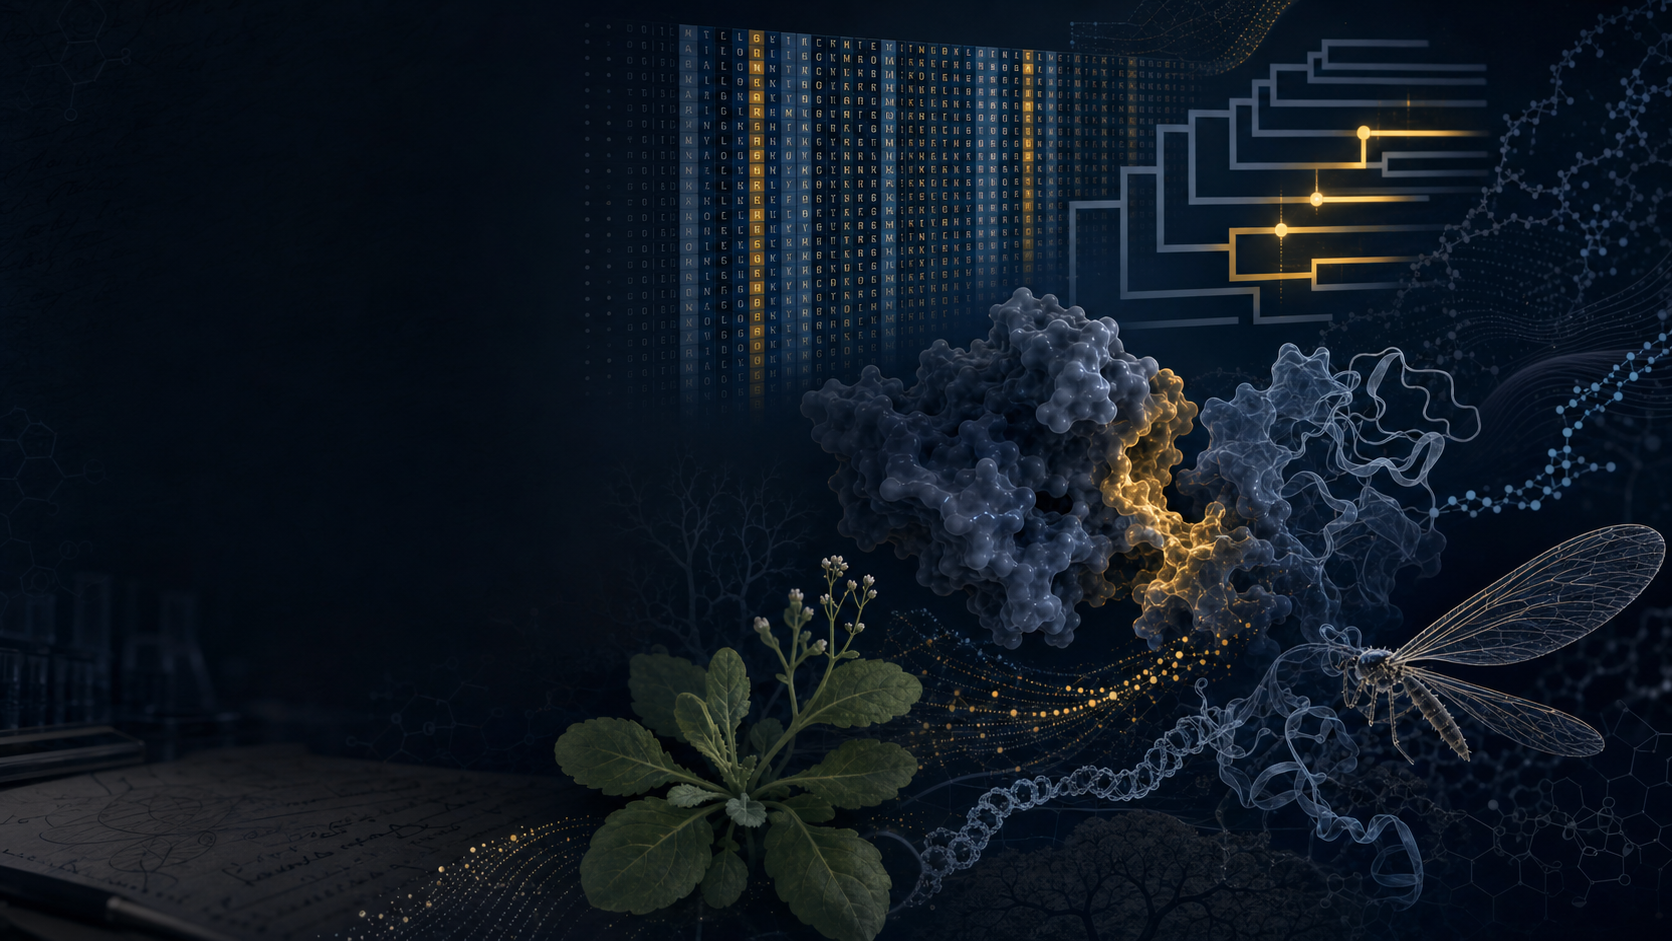
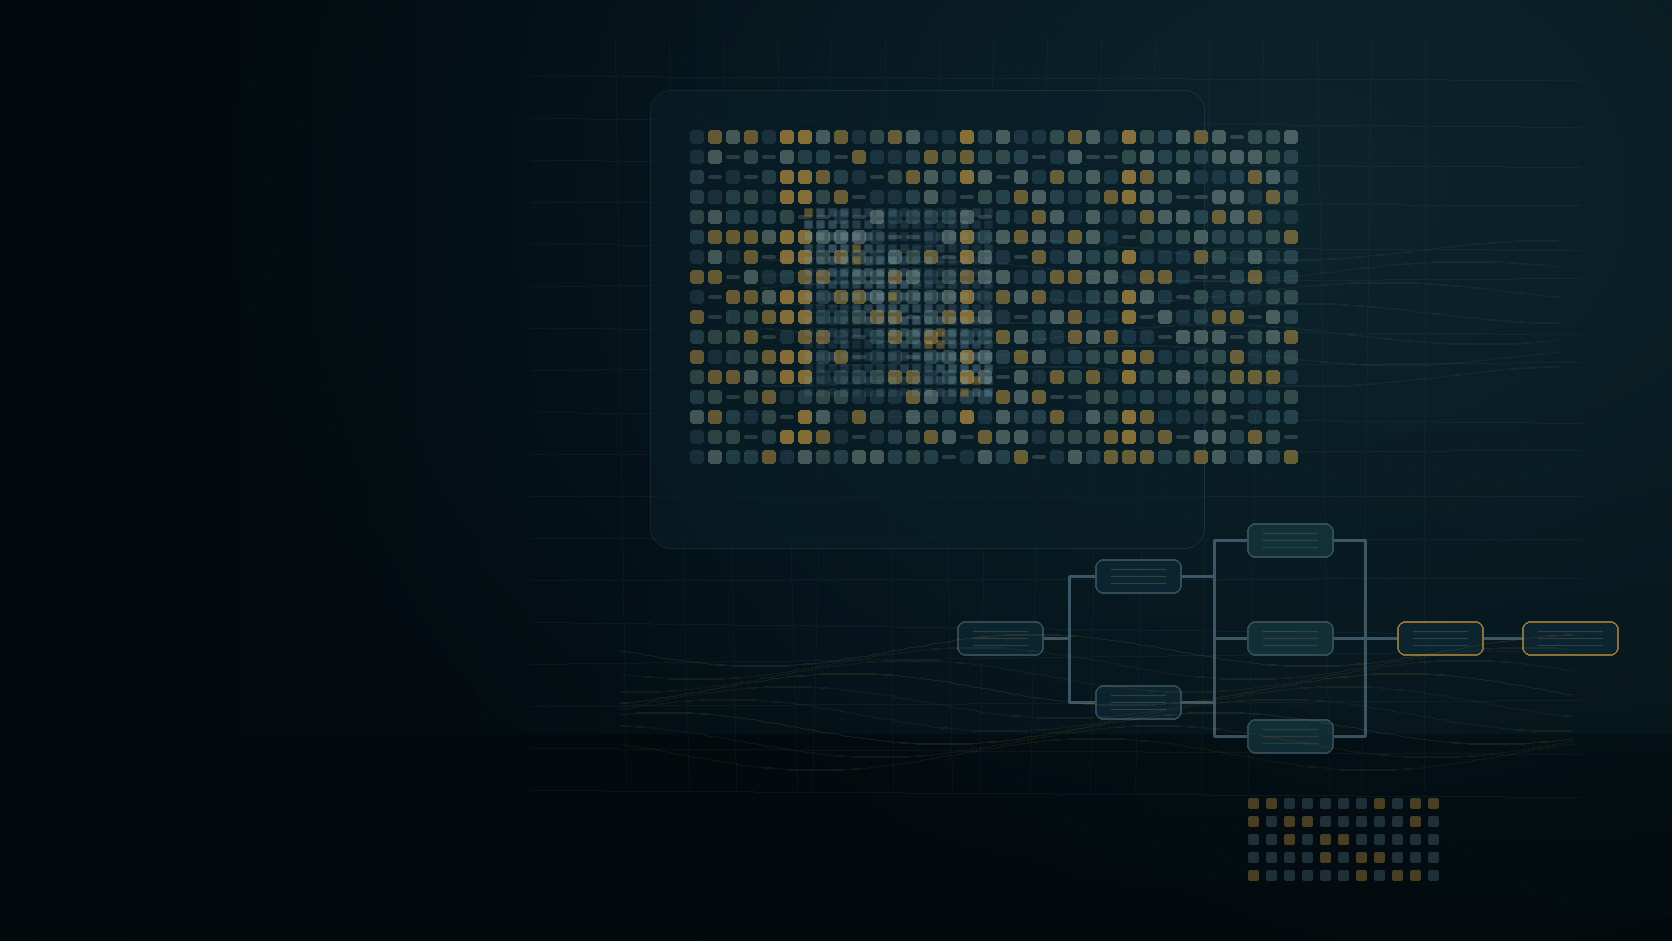
commit

diff --git a/styles.css b/styles.css
@@ -141,23 +141,8 @@ h3 {
 }
 
 .institution-wordmark {
-  display: inline-flex;
-  align-items: center;
-  gap: 9px;
-}
-
-.institution-wordmark span {
-  display: inline-grid;
-  width: 26px;
-  height: 22px;
-  place-items: center;
-  border: 1px solid rgba(255, 255, 255, 0.5);
-  border-radius: 3px;
   color: var(--gold);
-  font-family: Inter, ui-sans-serif, system-ui, sans-serif;
-  font-size: 0.66rem;
-  font-weight: 900;
-  letter-spacing: 0;
+  font-weight: 850;
 }
 
 .site-header.is-scrolled,
@@ -185,44 +170,12 @@ h3 {
 .brand {
   display: inline-flex;
   align-items: center;
-  gap: 12px;
-}
-
-.brand-mark {
-  display: block;
-  position: relative;
-  width: 44px;
-  height: 44px;
-  border: 1px solid currentColor;
-  border-radius: 4px;
-  background: rgba(255, 255, 255, 0.09);
-  overflow: hidden;
-}
-
-.brand-mark img {
-  display: block;
-  position: absolute;
-  inset: 4px;
-  width: calc(100% - 8px);
-  height: calc(100% - 8px);
-  object-fit: cover;
-  object-position: center;
-}
-
-.brand strong,
-.brand small {
-  display: block;
 }
 
 .brand strong {
-  font-size: 0.96rem;
+  display: block;
+  font-size: 1rem;
   line-height: 1.18;
-}
-
-.brand small {
-  color: currentColor;
-  font-size: 0.74rem;
-  opacity: 0.76;
 }
 
 .nav-links {
@@ -832,13 +785,6 @@ h3 {
   margin-bottom: 0;
 }
 
-.figure-credit {
-  margin-top: 6px;
-  color: rgba(255, 255, 255, 0.58);
-  font-size: 0.72rem;
-  line-height: 1.45;
-}
-
 .site-footer a {
   color: var(--white);
   font-weight: 850;
@@ -924,11 +870,7 @@ h3 {
 
   .brand strong {
     max-width: 172px;
-    font-size: 0.84rem;
-  }
-
-  .brand small {
-    max-width: 172px;
+    font-size: 0.9rem;
   }
 
   .nav-links {
@@ -1017,17 +959,7 @@ h3 {
 }
 
 @media (max-width: 380px) {
-  .brand-mark {
-    width: 38px;
-    height: 38px;
-  }
-
-  .brand {
-    gap: 9px;
-  }
-
-  .brand strong,
-  .brand small {
+  .brand strong {
     max-width: 150px;
   }
 

diff --git a/index.html b/index.html
@@ -9,10 +9,6 @@
     >
     <title>Sinha Molecular Evolution Group | Visva-Bharati</title>
     <link rel="stylesheet" href="styles.css">
-    <link
-      rel="icon"
-      href="assets/soybean-wrky-fig5b-lab-icon.png"
-    >
   </head>
   <body>
     <a class="skip-link" href="#main">Skip to content</a>
@@ -20,20 +16,14 @@
     <header class="site-header" data-header>
       <div class="institution-bar">
         <div class="nav-shell">
-          <span class="institution-wordmark"><span aria-hidden="true">VB</span> Visva-Bharati</span>
+          <span class="institution-wordmark">Visva-Bharati</span>
           <span>Siksha Bhavana · Department of Zoology</span>
         </div>
       </div>
 
       <nav class="nav-shell primary-nav" aria-label="Primary navigation">
         <a class="brand" href="#top" aria-label="Sinha Molecular Evolution Group home">
-          <span class="brand-mark" aria-hidden="true">
-            <img src="assets/soybean-wrky-fig5b-lab-icon.png" alt="">
-          </span>
-          <span>
-            <strong>Sinha Molecular Evolution Group</strong>
-            <small>Adaptive evolution · Bioinformatics</small>
-          </span>
+          <strong>Sinha Molecular Evolution Group</strong>
         </a>
 
         <button class="nav-toggle" type="button" aria-controls="primary-menu" aria-expanded="false">
@@ -59,7 +49,7 @@
         <img
           class="hero-media"
           src="assets/sinha-lab-research-background.png"
-          alt="Original scientific background showing sequence alignment, adaptive phylogeny, protein interface, Arabidopsis, and mosquito evolution motifs"
+          alt="Original computational biology background inspired by BABAPPAlign sequence alignment and BABAPPASnake reproducible workflow motifs"
         >
         <div class="hero-overlay"></div>
         <div class="hero-content">
@@ -347,14 +337,7 @@
 
     <footer class="site-footer">
       <div class="container footer-layout">
-        <div>
-          <p>&copy; <span data-year></span> Sinha Molecular Evolution Group, Visva-Bharati.</p>
-          <p class="figure-credit">
-            Lab icon source: Fig. 5b,
-            <a href="https://doi.org/10.1038/s41598-024-77156-5" target="_blank" rel="noreferrer">Scientific Reports</a>,
-            <a href="https://creativecommons.org/licenses/by-nc-nd/4.0/" target="_blank" rel="noreferrer">CC BY-NC-ND 4.0</a>.
-          </p>
-        </div>
+        <p>&copy; <span data-year></span> Sinha Molecular Evolution Group, Visva-Bharati.</p>
         <a href="#top">Back to top</a>
       </div>
     </footer>

diff --git a/README.md b/README.md
@@ -26,8 +26,6 @@ Scholarly profiles:
 ├── script.js
 ├── .nojekyll
 └── assets/
-    ├── soybean-wrky-fig5b-lab-icon.png
-    ├── sinha-molecular-evolution-group-logo.svg
     ├── molecular-evolution-hero.png
     ├── krishnendu-sinha.jpeg
     └── sinha-lab-research-background.png
@@ -35,9 +33,7 @@ Scholarly profiles:
 
 `index.html` contains the page content, publication highlights, profile links, and contact information. `styles.css` defines the visual identity and responsive layout. `script.js` controls the mobile navigation and active section states. `.nojekyll` ensures GitHub Pages serves the static files directly.
 
-The active homepage background is `assets/sinha-lab-research-background.png`, an original visual composed around sequence alignment, branch-site selection, protein-interface evolution, Arabidopsis COL5, mosquito FBN30, and computational molecular evolution themes.
-
-The active header icon is `assets/soybean-wrky-fig5b-lab-icon.png`, using Fig. 5b from the Scientific Reports article at <https://doi.org/10.1038/s41598-024-77156-5>. The image is credited on the website footer and is associated with the CC BY-NC-ND 4.0 license. The original vector mark remains available at `assets/sinha-molecular-evolution-group-logo.svg`.
+The active homepage background is `assets/sinha-lab-research-background.png`, an original software-centered visual inspired by BABAPPAlign and BABAPPASnake: multiple sequence alignment blocks, learned residue-level scoring, workflow orchestration, and robustness-summary motifs.
 
 The principal investigator portrait is stored at `assets/krishnendu-sinha.jpeg`.
 
@@ -74,12 +70,12 @@ When updating the website:
 - Keep `index.html` in the repository root.
 - Keep publication links DOI-based where possible.
 - Use original or properly licensed figures and media.
-- Use institutional marks, seals, and logos only when the appropriate permission or license is available.
+- Use institutional marks and seals only when the appropriate permission or license is available.
 - Add new group members, publications, software, and datasets as the group grows.
 - Check both desktop and mobile layouts after major edits.
 
 ## Content
 
-The homepage schematic panels are original summaries prepared for web presentation. The header icon uses Fig. 5b from the Scientific Reports article at <https://doi.org/10.1038/s41598-024-77156-5>, with footer attribution and license link.
+The homepage schematic panels and background are original summaries prepared for web presentation.
 
-The website uses a textual Visva-Bharati affiliation mark. The official Visva-Bharati seal or logo is not bundled in this repository unless separately authorized.
+The website uses a textual Visva-Bharati affiliation mark. The official Visva-Bharati seal is not bundled in this repository unless separately authorized.